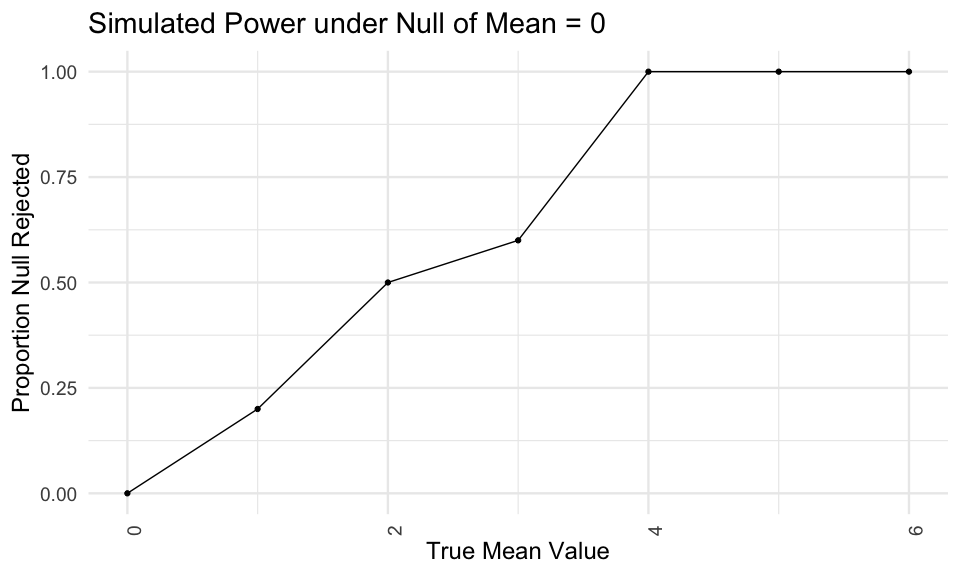
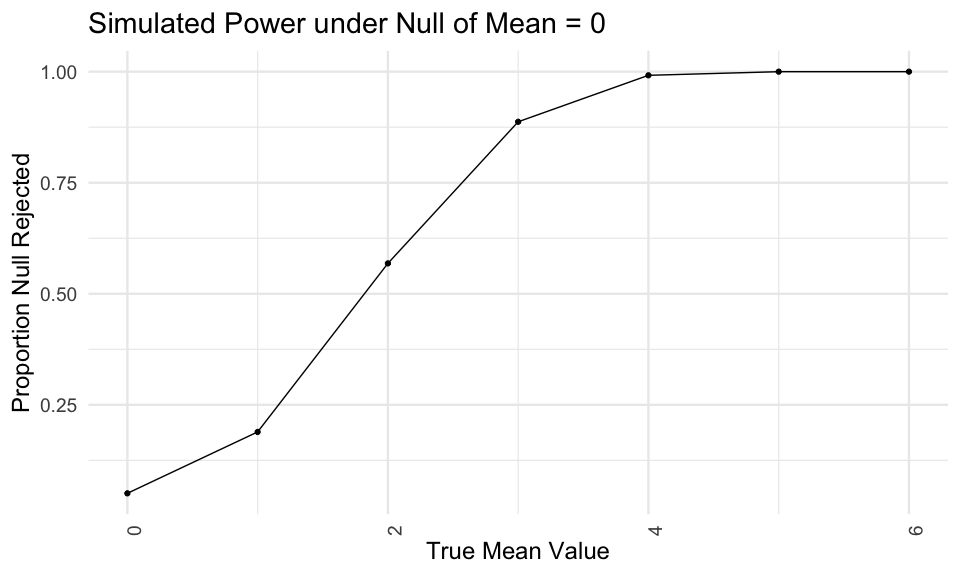
Tweaks to problem 3 - rework answer.

diff --git a/p8105_HW5_isn2102.md b/p8105_HW5_isn2102.md
@@ -194,7 +194,7 @@ sim_results <-
     mean_val = c(0, 1, 2, 3, 4, 5, 6)
   ) %>% 
   mutate(
-    output_list = map(.x = mean_val, ~ rerun(10, sim_mean_pval(mu = .x))),
+    output_list = map(.x = mean_val, ~ rerun(5000, sim_mean_pval(mu = .x))),
     output_df = map(output_list, bind_rows)
   ) %>% 
   select(-output_list) %>% 
@@ -251,23 +251,50 @@ value gets further away from the null of zero on the x-axis) the power
 to reject the null increases as well (shown by the increasing proportion
 of times that the null is rejected, on the y-value).
 
-Create two new datasets for all mean estimates and only rejected mean
-estimates, then plot both on the same graph.
+Create two new datasets to calculate average for all mean estimates and
+only rejected mean estimates, then plot both on the same graph.
 
 ``` r
-sim_results %>% 
-unnest(data) %>% 
-select(-p.value) %>% 
-ggplot(aes(x = mean_val, y = estimate, color = rejected)) +
-geom_point() +
-xlab("True Mean Value") +
-ylab("Estimated Mean Value") +
-labs(title = "Comparison of mean estimates")
+rejected_estimates <- 
+  sim_results %>% 
+  unnest(data) %>% 
+  select(-p.value) %>%
+  group_by(mean_val) %>% 
+  filter(rejected == "yes") %>% 
+  summarize(mean_rej = mean(estimate))
+```
+
+    ## `summarise()` ungrouping output (override with `.groups` argument)
+
+``` r
+all_estimates <-
+  sim_results %>% 
+  unnest(data) %>% 
+  select(-p.value) %>%
+  group_by(mean_val) %>% 
+  summarize(mean_all = mean(estimate))
+```
+
+    ## `summarise()` ungrouping output (override with `.groups` argument)
+
+``` r
+left_join(rejected_estimates, all_estimates, by = "mean_val") %>%
+  pivot_longer(mean_rej:mean_all, 
+               names_to = "sample", 
+               values_to = "estimate") %>% 
+  ggplot(aes(x = mean_val, y = estimate, color = sample)) +
+  geom_line() +
+  xlab("True Mean Value") +
+  ylab("Estimated Mean Value") +
+  labs(title = "Comparison of mean estimates")
 ```
 
 <img src="p8105_HW5_isn2102_files/figure-gfm/unnamed-chunk-13-1.png" width="90%" />
-
-**Is the sample average of μ̂ across tests for which the null is
-rejected approximately equal to the true value of μ? Why or why not?**
-
-**Change number of simulations to 5000**
+When we look at true mean values above 4, the sample average of mu
+across tests where the null is rejected and the sample average of mu
+across all tests are both approximately equal to the true value of mu.
+However when we look at true mean values below 4, the sample average of
+mu is approximately equal to the true value of mu only for the all tests
+group. For the tests where the null is rejected, the true value of mu is
+not equal to the average estimated mu, which we see from the divergent
+yellow line.
